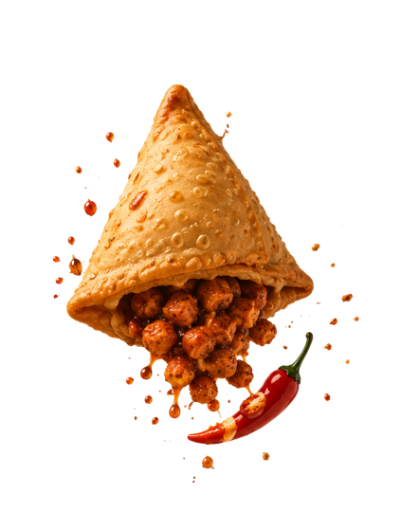
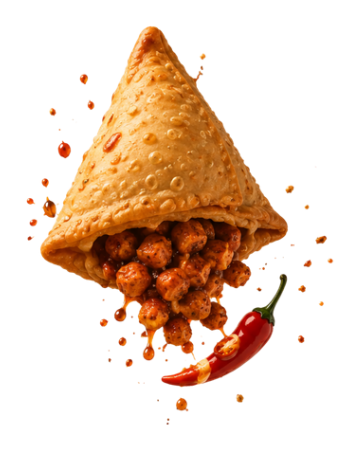
Normalize samosa photo sizing and bump card sizes 15%
The three source photos had wildly different amounts of transparent
padding baked in, so object-fit: contain rendered them at
inconsistent visual sizes even in identical card boxes. Crops each
to its content with a consistent margin, and adjusts fajita's canvas
aspect ratio to match the card's image area so all three fill it
consistently. Also bumps card max-width 15% across the board (base
320px -> 368px, pizza's own override 336px -> 386px).

Claude-Session: https://claude.ai/code/session_01VYY5Wf5ppv6TZTBE4AG8zD

diff --git a/css/style.css b/css/style.css
@@ -587,7 +587,7 @@ button{ font: inherit; color: inherit; background: none; border: 0; cursor: poin
   position: relative;
   margin: 0;
   flex: 1 1 0;
-  max-width: 320px;
+  max-width: 368px;
   aspect-ratio: 3 / 4;
   display: flex;
   align-items: flex-end;
@@ -596,7 +596,7 @@ button{ font: inherit; color: inherit; background: none; border: 0; cursor: poin
   transition: transform .45s var(--ease-out), opacity .45s var(--ease-out);
 }
 
-.samosa-card--pizza{ max-width: 336px; top: -32px; }
+.samosa-card--pizza{ max-width: 386px; top: -32px; }
 
 .samosa-row.has-selection .samosa-card{ transform: scale(.92); opacity: .55; }
 .samosa-row.has-selection .samosa-card.is-selected{
